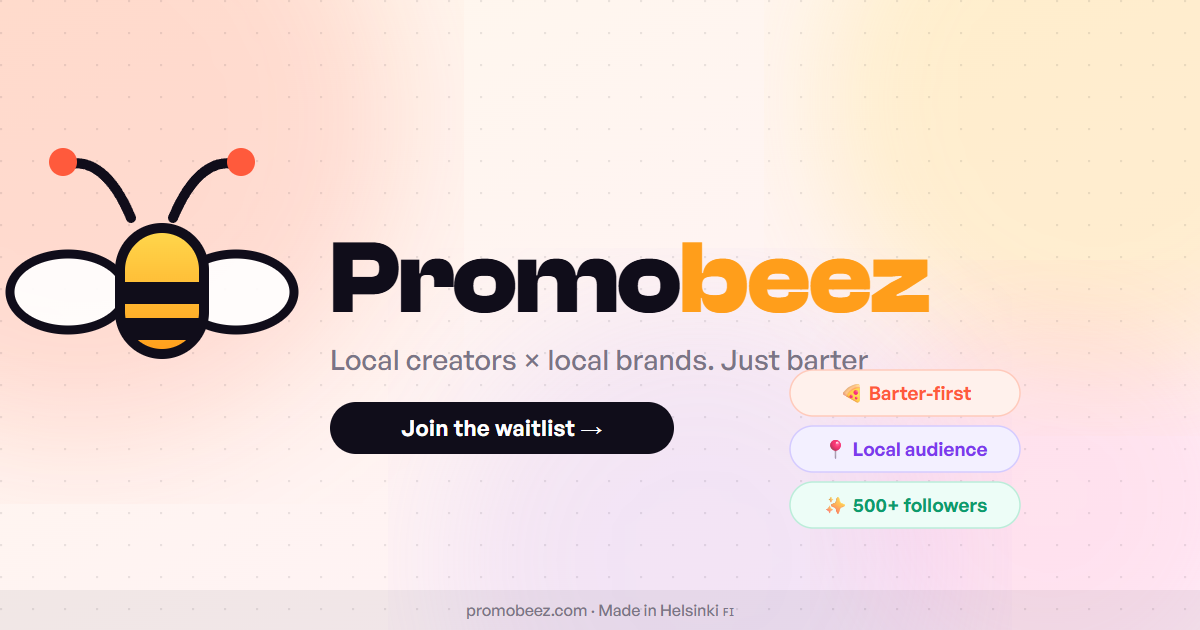
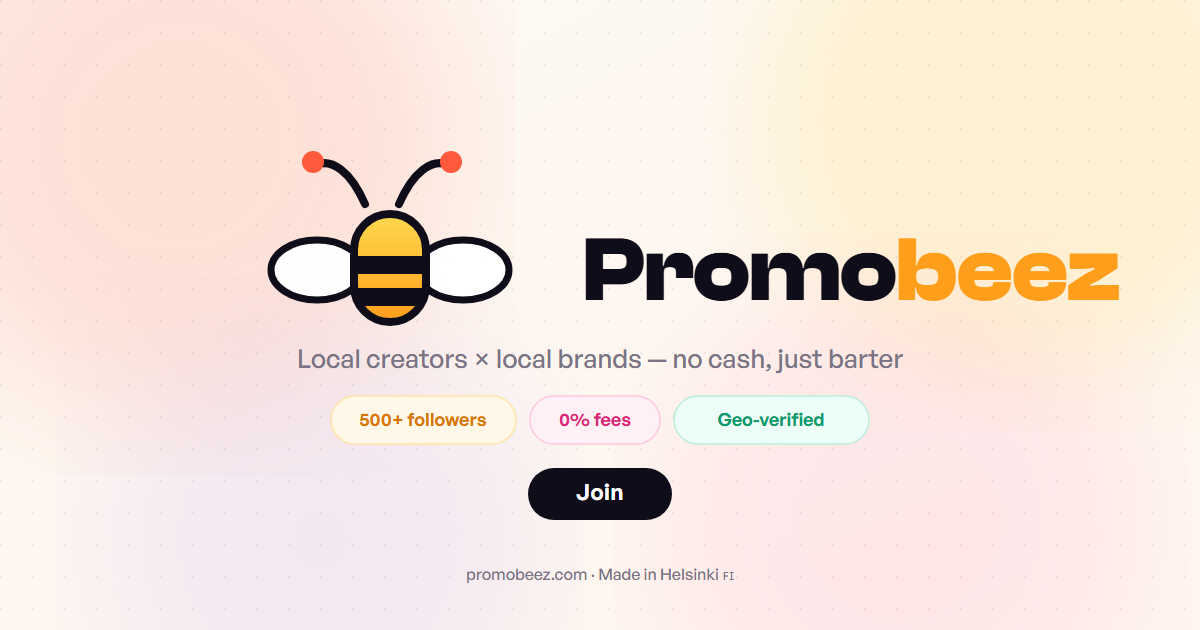
Redesign social preview cards to match the light site theme.
Center the layout, fix Promobeez wordmark spacing, and update CTA to Join now that signup is live.

diff --git a/render-social.html b/render-social.html
@@ -10,94 +10,103 @@
 <svg xmlns="http://www.w3.org/2000/svg" viewBox="0 0 1200 630" width="1200" height="630">
   <defs>
     <linearGradient id="hero" x1="0" y1="0" x2="1" y2="1">
-      <stop offset="0" stop-color="#FFF8EC"/>
-      <stop offset="1" stop-color="#FFF0F8"/>
+      <stop offset="0" stop-color="#FDF9F3"/>
+      <stop offset="1" stop-color="#FFF5EE"/>
     </linearGradient>
     <linearGradient id="beeBody" x1="0" y1="0" x2="0" y2="1">
       <stop offset="0" stop-color="#FFD84D"/>
       <stop offset="1" stop-color="#FF9E1B"/>
     </linearGradient>
     <clipPath id="bclip">
-      <rect x="120" y="228" width="84" height="126" rx="42"/>
+      <rect x="306" y="214" width="72" height="108" rx="36"/>
     </clipPath>
     <filter id="blur1"><feGaussianBlur stdDeviation="70"/></filter>
     <filter id="blur2"><feGaussianBlur stdDeviation="55"/></filter>
   </defs>
   <rect width="1200" height="630" fill="url(#hero)"/>
-  <circle cx="80" cy="120" r="320" fill="#FF5A3C" opacity=".18" filter="url(#blur1)"/>
-  <circle cx="1100" cy="100" r="280" fill="#FFD84D" opacity=".22" filter="url(#blur2)"/>
-  <circle cx="700" cy="560" r="260" fill="#A78BFA" opacity=".14" filter="url(#blur1)"/>
-  <circle cx="1050" cy="500" r="200" fill="#FF6FB5" opacity=".12" filter="url(#blur2)"/>
+  <circle cx="180" cy="140" r="280" fill="#FF5A3C" opacity=".14" filter="url(#blur1)"/>
+  <circle cx="1020" cy="120" r="260" fill="#FFD84D" opacity=".18" filter="url(#blur2)"/>
+  <circle cx="320" cy="540" r="220" fill="#A78BFA" opacity=".12" filter="url(#blur1)"/>
+  <circle cx="900" cy="520" r="240" fill="#FF6FB5" opacity=".10" filter="url(#blur2)"/>
   <pattern id="dots" x="0" y="0" width="32" height="32" patternUnits="userSpaceOnUse">
-    <circle cx="1" cy="1" r="1.2" fill="#100D1A" opacity=".09"/>
+    <circle cx="1" cy="1" r="1.2" fill="#100D1A" opacity=".06"/>
   </pattern>
   <rect width="1200" height="630" fill="url(#dots)"/>
-  <path d="M131 218 C112 172 89 160 70 164" stroke="#100D1A" stroke-width="10" stroke-linecap="round" fill="none"/>
-  <path d="M173 218 C192 172 215 160 234 164" stroke="#100D1A" stroke-width="10" stroke-linecap="round" fill="none"/>
-  <circle cx="63" cy="162" r="14" fill="#FF5A3C"/>
-  <circle cx="241" cy="162" r="14" fill="#FF5A3C"/>
-  <ellipse cx="68" cy="292" rx="58" ry="38" fill="#fff" fill-opacity=".9" stroke="#100D1A" stroke-width="9"/>
-  <ellipse cx="236" cy="292" rx="58" ry="38" fill="#fff" fill-opacity=".9" stroke="#100D1A" stroke-width="9"/>
-  <rect x="120" y="228" width="84" height="126" rx="42" fill="url(#beeBody)" stroke="#100D1A" stroke-width="10"/>
+  <g transform="translate(48, 0)">
+  <path d="M317 204 C302 170 284 160 270 164" stroke="#100D1A" stroke-width="8" stroke-linecap="round" fill="none"/>
+  <path d="M351 204 C366 170 384 160 398 164" stroke="#100D1A" stroke-width="8" stroke-linecap="round" fill="none"/>
+  <circle cx="265" cy="162" r="11" fill="#FF5A3C"/>
+  <circle cx="403" cy="162" r="11" fill="#FF5A3C"/>
+  <ellipse cx="269" cy="270" rx="46" ry="30" fill="#fff" fill-opacity=".95" stroke="#100D1A" stroke-width="7"/>
+  <ellipse cx="415" cy="270" rx="46" ry="30" fill="#fff" fill-opacity=".95" stroke="#100D1A" stroke-width="7"/>
+  <rect x="306" y="214" width="72" height="108" rx="36" fill="url(#beeBody)" stroke="#100D1A" stroke-width="8"/>
   <g clip-path="url(#bclip)">
-    <rect x="116" y="282" width="92" height="22" fill="#100D1A"/>
-    <rect x="116" y="318" width="92" height="22" fill="#100D1A"/>
+    <rect x="302" y="256" width="80" height="18" fill="#100D1A"/>
+    <rect x="302" y="288" width="80" height="18" fill="#100D1A"/>
   </g>
-  <text x="330" y="312" font-family="'Clash Display',sans-serif" font-size="104" font-weight="700" letter-spacing="-2" fill="#100D1A">Promo<tspan fill="#FF9E1B">beez</tspan></text>
-  <text x="330" y="370" font-family="'General Sans',sans-serif" font-size="28" font-weight="500" fill="#7A7486" letter-spacing=".2">Local creators × local brands. Just barter</text>
-  <rect x="330" y="402" width="344" height="52" rx="26" fill="#100D1A"/>
-  <text x="502" y="436" font-family="'General Sans',sans-serif" font-size="22" font-weight="600" fill="#fff" text-anchor="middle" letter-spacing=".4">Join the waitlist →</text>
-  <rect x="790" y="370" width="230" height="46" rx="23" fill="#FFF1EC" stroke="#FFCABB" stroke-width="1.5"/>
-  <text x="905" y="400" font-family="'General Sans',sans-serif" font-size="19" font-weight="600" fill="#FF5A3C" text-anchor="middle">🍕 Barter-first</text>
-  <rect x="790" y="426" width="230" height="46" rx="23" fill="#F3F0FF" stroke="#D4CBFF" stroke-width="1.5"/>
-  <text x="905" y="456" font-family="'General Sans',sans-serif" font-size="19" font-weight="600" fill="#7C3AED" text-anchor="middle">📍 Local audience</text>
-  <rect x="790" y="482" width="230" height="46" rx="23" fill="#EDFDF7" stroke="#BBEDD9" stroke-width="1.5"/>
-  <text x="905" y="512" font-family="'General Sans',sans-serif" font-size="19" font-weight="600" fill="#0D9B6C" text-anchor="middle">✨ 500+ followers</text>
-  <rect x="0" y="590" width="1200" height="40" fill="#100D1A" opacity=".06"/>
-  <text x="600" y="616" font-family="'General Sans',sans-serif" font-size="16" font-weight="500" fill="#7A7486" text-anchor="middle">promobeez.com · Made in Helsinki 🇫🇮</text>
+  <text x="535" y="300" font-family="'Clash Display',sans-serif" font-size="92" font-weight="700" letter-spacing="-1" fill="#100D1A">Promo<tspan fill="#FF9E1B">beez</tspan></text>
+  </g>
+  <text x="600" y="368" font-family="'General Sans',sans-serif" font-size="26" font-weight="500" fill="#7A7486" text-anchor="middle">Local creators × local brands — no cash, just barter</text>
+  <rect x="331" y="396" width="185" height="48" rx="24" fill="#FFF8E8" stroke="#FFE4A8" stroke-width="1.5"/>
+  <text x="423" y="426" font-family="'General Sans',sans-serif" font-size="18" font-weight="600" fill="#D97706" text-anchor="middle">500+ followers</text>
+  <rect x="530" y="396" width="130" height="48" rx="24" fill="#FFF0F6" stroke="#FFC8E0" stroke-width="1.5"/>
+  <text x="595" y="426" font-family="'General Sans',sans-serif" font-size="18" font-weight="600" fill="#DB2777" text-anchor="middle">0% fees</text>
+  <rect x="674" y="396" width="195" height="48" rx="24" fill="#EDFDF7" stroke="#BBEDD9" stroke-width="1.5"/>
+  <text x="771" y="426" font-family="'General Sans',sans-serif" font-size="18" font-weight="600" fill="#0D9B6C" text-anchor="middle">Geo-verified</text>
+  <rect x="528" y="468" width="144" height="52" rx="26" fill="#100D1A"/>
+  <text x="600" y="500" font-family="'General Sans',sans-serif" font-size="22" font-weight="600" fill="#fff" text-anchor="middle" letter-spacing=".4">Join</text>
+  <text x="600" y="580" font-family="'General Sans',sans-serif" font-size="16" font-weight="500" fill="#7A7486" text-anchor="middle">promobeez.com · Made in Helsinki 🇫🇮</text>
 </svg>
 </div>
 
 <div id="tw">
 <svg xmlns="http://www.w3.org/2000/svg" viewBox="0 0 1200 628" width="1200" height="628">
   <defs>
-    <linearGradient id="bg2" x1="0" y1="0" x2="1" y2="1">
-      <stop offset="0" stop-color="#100D1A"/>
-      <stop offset="1" stop-color="#1E1730"/>
+    <linearGradient id="hero2" x1="0" y1="0" x2="1" y2="1">
+      <stop offset="0" stop-color="#FDF9F3"/>
+      <stop offset="1" stop-color="#FFF5EE"/>
     </linearGradient>
     <linearGradient id="beeBody2" x1="0" y1="0" x2="0" y2="1">
       <stop offset="0" stop-color="#FFD84D"/>
       <stop offset="1" stop-color="#FF9E1B"/>
     </linearGradient>
-    <filter id="glow"><feGaussianBlur stdDeviation="60"/></filter>
+    <filter id="blur3"><feGaussianBlur stdDeviation="70"/></filter>
+    <filter id="blur4"><feGaussianBlur stdDeviation="55"/></filter>
     <clipPath id="bclip2">
-      <rect x="84" y="222" width="72" height="108" rx="36"/>
+      <rect x="306" y="214" width="72" height="108" rx="36"/>
     </clipPath>
   </defs>
-  <rect width="1200" height="628" fill="url(#bg2)"/>
-  <circle cx="160" cy="200" r="260" fill="#FF5A3C" opacity=".22" filter="url(#glow)"/>
-  <circle cx="1080" cy="440" r="240" fill="#A78BFA" opacity=".2" filter="url(#glow)"/>
-  <circle cx="650" cy="620" r="200" fill="#FFD84D" opacity=".12" filter="url(#glow)"/>
-  <path d="M95 212 C80 178 62 168 48 172" stroke="#fff" stroke-width="8" stroke-linecap="round" fill="none"/>
-  <path d="M129 212 C144 178 162 168 176 172" stroke="#fff" stroke-width="8" stroke-linecap="round" fill="none"/>
-  <circle cx="43" cy="170" r="11" fill="#FF5A3C"/>
-  <circle cx="181" cy="170" r="11" fill="#FF5A3C"/>
-  <ellipse cx="47" cy="278" rx="46" ry="30" fill="#fff" fill-opacity=".15" stroke="#fff" stroke-opacity=".4" stroke-width="7"/>
-  <ellipse cx="193" cy="278" rx="46" ry="30" fill="#fff" fill-opacity=".15" stroke="#fff" stroke-opacity=".4" stroke-width="7"/>
-  <rect x="84" y="222" width="72" height="108" rx="36" fill="url(#beeBody2)" stroke="#100D1A" stroke-width="8"/>
+  <rect width="1200" height="628" fill="url(#hero2)"/>
+  <circle cx="180" cy="140" r="280" fill="#FF5A3C" opacity=".14" filter="url(#blur3)"/>
+  <circle cx="1020" cy="120" r="260" fill="#FFD84D" opacity=".18" filter="url(#blur4)"/>
+  <circle cx="320" cy="540" r="220" fill="#A78BFA" opacity=".12" filter="url(#blur3)"/>
+  <circle cx="900" cy="520" r="240" fill="#FF6FB5" opacity=".10" filter="url(#blur4)"/>
+  <pattern id="dots2" x="0" y="0" width="32" height="32" patternUnits="userSpaceOnUse">
+    <circle cx="1" cy="1" r="1.2" fill="#100D1A" opacity=".06"/>
+  </pattern>
+  <rect width="1200" height="628" fill="url(#dots2)"/>
+  <g transform="translate(48, 0)">
+  <path d="M317 204 C302 170 284 160 270 164" stroke="#100D1A" stroke-width="8" stroke-linecap="round" fill="none"/>
+  <path d="M351 204 C366 170 384 160 398 164" stroke="#100D1A" stroke-width="8" stroke-linecap="round" fill="none"/>
+  <circle cx="265" cy="162" r="11" fill="#FF5A3C"/>
+  <circle cx="403" cy="162" r="11" fill="#FF5A3C"/>
+  <ellipse cx="269" cy="270" rx="46" ry="30" fill="#fff" fill-opacity=".95" stroke="#100D1A" stroke-width="7"/>
+  <ellipse cx="415" cy="270" rx="46" ry="30" fill="#fff" fill-opacity=".95" stroke="#100D1A" stroke-width="7"/>
+  <rect x="306" y="214" width="72" height="108" rx="36" fill="url(#beeBody2)" stroke="#100D1A" stroke-width="8"/>
   <g clip-path="url(#bclip2)">
-    <rect x="80" y="264" width="80" height="18" fill="#100D1A"/>
-    <rect x="80" y="296" width="80" height="18" fill="#100D1A"/>
+    <rect x="302" y="256" width="80" height="18" fill="#100D1A"/>
+    <rect x="302" y="288" width="80" height="18" fill="#100D1A"/>
   </g>
-  <text x="280" y="308" font-family="'Clash Display',sans-serif" font-size="92" font-weight="700" letter-spacing="-2" fill="#fff">Promo<tspan fill="#FF9E1B">beez</tspan></text>
-  <text x="280" y="368" font-family="'General Sans',sans-serif" font-size="26" font-weight="500" fill="rgba(255,255,255,.6)">Local creators × local brands — no cash, just barter</text>
-  <rect x="280" y="404" width="185" height="48" rx="24" fill="rgba(255,255,255,.08)" stroke="rgba(255,255,255,.14)" stroke-width="1.5"/>
-  <text x="372" y="435" font-family="'General Sans',sans-serif" font-size="18" font-weight="600" fill="#FFD84D" text-anchor="middle">500+ followers</text>
-  <rect x="480" y="404" width="130" height="48" rx="24" fill="rgba(255,255,255,.08)" stroke="rgba(255,255,255,.14)" stroke-width="1.5"/>
-  <text x="545" y="435" font-family="'General Sans',sans-serif" font-size="18" font-weight="600" fill="#FF6FB5" text-anchor="middle">0% fees</text>
-  <rect x="625" y="404" width="175" height="48" rx="24" fill="rgba(255,255,255,.08)" stroke="rgba(255,255,255,.14)" stroke-width="1.5"/>
-  <text x="712" y="435" font-family="'General Sans',sans-serif" font-size="18" font-weight="600" fill="#4ADE80" text-anchor="middle">Geo-verified</text>
-  <text x="280" y="510" font-family="'General Sans',sans-serif" font-size="20" font-weight="500" fill="rgba(255,255,255,.35)">promobeez.com</text>
+  <text x="535" y="300" font-family="'Clash Display',sans-serif" font-size="92" font-weight="700" letter-spacing="-1" fill="#100D1A">Promo<tspan fill="#FF9E1B">beez</tspan></text>
+  </g>
+  <text x="600" y="368" font-family="'General Sans',sans-serif" font-size="26" font-weight="500" fill="#7A7486" text-anchor="middle">Local creators × local brands — no cash, just barter</text>
+  <rect x="331" y="396" width="185" height="48" rx="24" fill="#FFF8E8" stroke="#FFE4A8" stroke-width="1.5"/>
+  <text x="423" y="426" font-family="'General Sans',sans-serif" font-size="18" font-weight="600" fill="#D97706" text-anchor="middle">500+ followers</text>
+  <rect x="530" y="396" width="130" height="48" rx="24" fill="#FFF0F6" stroke="#FFC8E0" stroke-width="1.5"/>
+  <text x="595" y="426" font-family="'General Sans',sans-serif" font-size="18" font-weight="600" fill="#DB2777" text-anchor="middle">0% fees</text>
+  <rect x="674" y="396" width="195" height="48" rx="24" fill="#EDFDF7" stroke="#BBEDD9" stroke-width="1.5"/>
+  <text x="771" y="426" font-family="'General Sans',sans-serif" font-size="18" font-weight="600" fill="#0D9B6C" text-anchor="middle">Geo-verified</text>
+  <text x="600" y="510" font-family="'General Sans',sans-serif" font-size="20" font-weight="500" fill="#7A7486" text-anchor="middle">promobeez.com</text>
 </svg>
 </div>
 </body>
